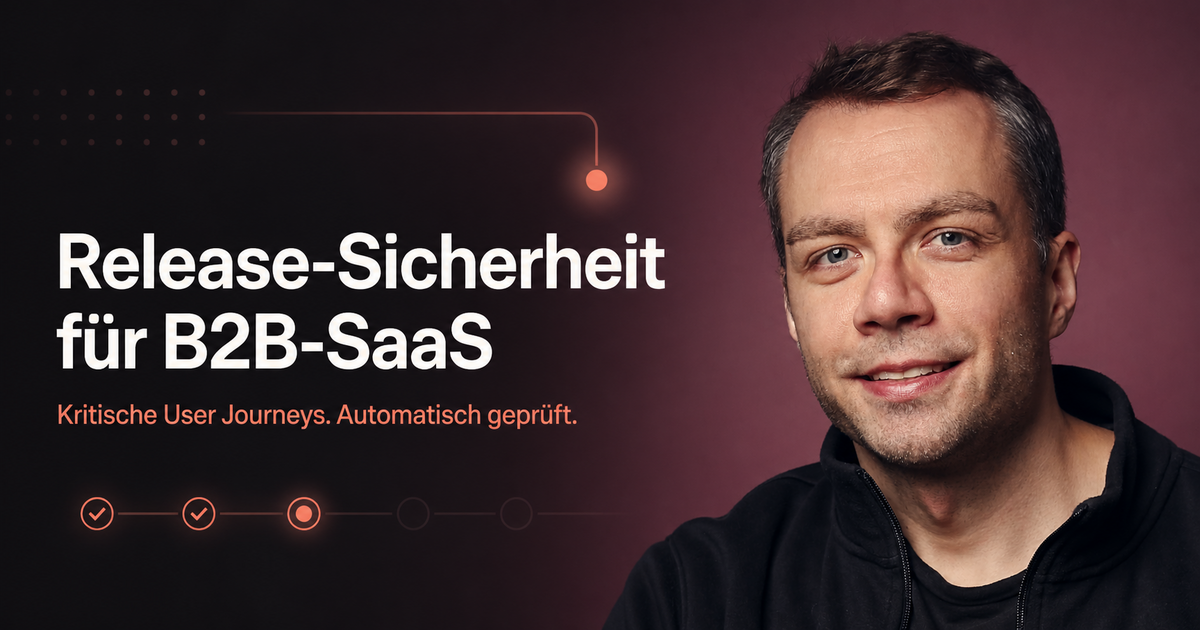
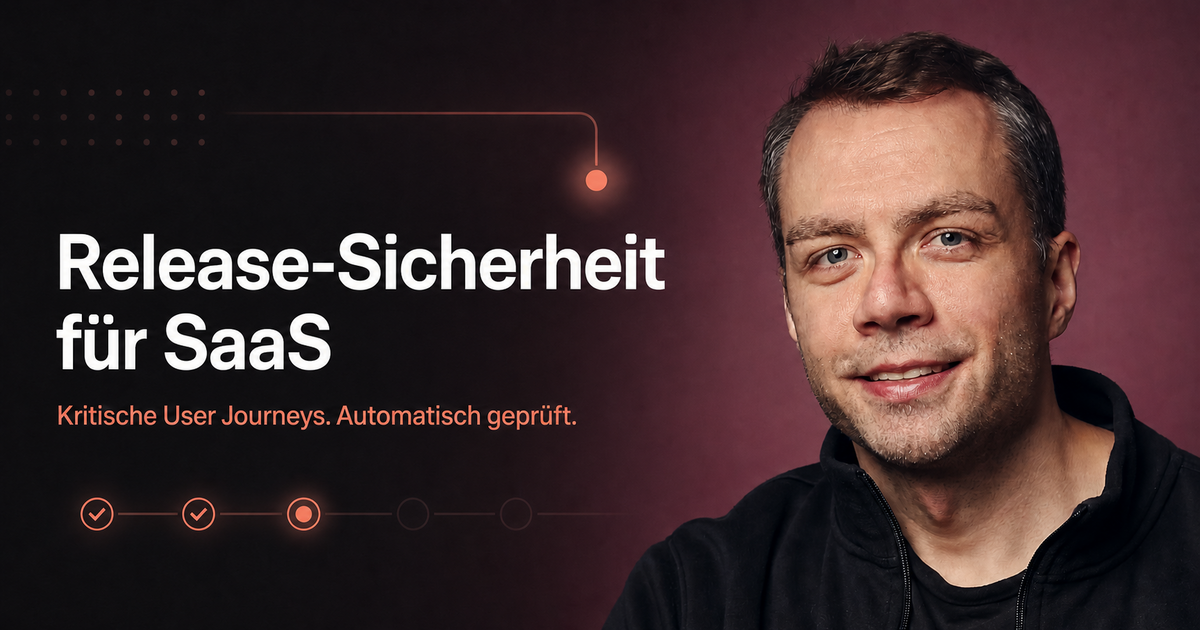
Broaden positioning to all SaaS products

diff --git a/app/layout.tsx b/app/layout.tsx
@@ -12,19 +12,19 @@ const siteUrl = owner
 
 export const metadata: Metadata = {
   metadataBase: new URL(siteUrl),
-  title: "Release Safety – Automatisierte E2E-Absicherung für B2B-SaaS",
+  title: "Release Safety – Automatisierte E2E-Absicherung für SaaS",
   description:
     "Kritische Kundenprozesse automatisiert bei jedem Release prüfen – mit Playwright, verständlicher Fehlerdiagnose und persönlicher Betreuung.",
   keywords: [
     "Release Sicherheit",
     "Playwright Testing",
     "E2E Testing",
-    "B2B SaaS",
+    "SaaS Testing",
     "Testautomatisierung",
   ],
   authors: [{ name: "Release Safety" }],
   openGraph: {
-    title: "Release-Sicherheit für B2B-SaaS",
+    title: "Release-Sicherheit für SaaS",
     description: "Kritische User Journeys. Automatisch geprüft.",
     type: "website",
     locale: "de_DE",
@@ -34,13 +34,13 @@ export const metadata: Metadata = {
         url: "./og.png",
         width: 1200,
         height: 630,
-        alt: "Release-Sicherheit für B2B-SaaS",
+        alt: "Release-Sicherheit für SaaS",
       },
     ],
   },
   twitter: {
     card: "summary_large_image",
-    title: "Release-Sicherheit für B2B-SaaS",
+    title: "Release-Sicherheit für SaaS",
     description: "Kritische User Journeys. Automatisch geprüft.",
     images: ["./og.png"],
   },

diff --git a/app/page.tsx b/app/page.tsx
@@ -36,7 +36,7 @@ export default function Home() {
         <div className="hero-copy">
           <p className="eyebrow">
             <span className="live-dot" aria-hidden="true" /> Managed E2E Testing
-            für B2B-SaaS
+            für SaaS
           </p>
           <h1>
             Ihre wichtigsten Kundenprozesse. <em>Bei jedem Release geprüft.</em>
@@ -288,7 +288,7 @@ export default function Home() {
         </div>
         <div className="fit-checklist">
           {[
-            "Sie betreiben eine laufende B2B-Webanwendung.",
+            "Sie betreiben eine laufende SaaS-Webanwendung.",
             "Ihr Team releast mindestens mehrmals im Monat.",
             "Regressionstests werden teilweise manuell ausgeführt.",
             "Eine große eigene QA-Abteilung gibt es noch nicht.",
@@ -370,7 +370,7 @@ export default function Home() {
           </span>
           <span>Release Safety</span>
         </a>
-        <p>Managed E2E Testing für B2B-SaaS · Made in Germany</p>
+        <p>Managed E2E Testing für SaaS · Made in Germany</p>
         <p>© {new Date().getFullYear()} Release Safety</p>
       </footer>
     </main>

diff --git a/README.md b/README.md
@@ -1,7 +1,7 @@
 # Release Safety Landingpage
 
 Statische, responsive Landingpage für einen Managed-E2E-Testing-Service für
-B2B-SaaS. Die Seite nutzt Playwright als Technologie, verkauft aber das Ergebnis:
+SaaS-Anwendungen. Die Seite nutzt Playwright als Technologie, verkauft aber das Ergebnis:
 Release-Sicherheit für kritische Kundenprozesse.
 
 ## Vor der Veröffentlichung anpassen
